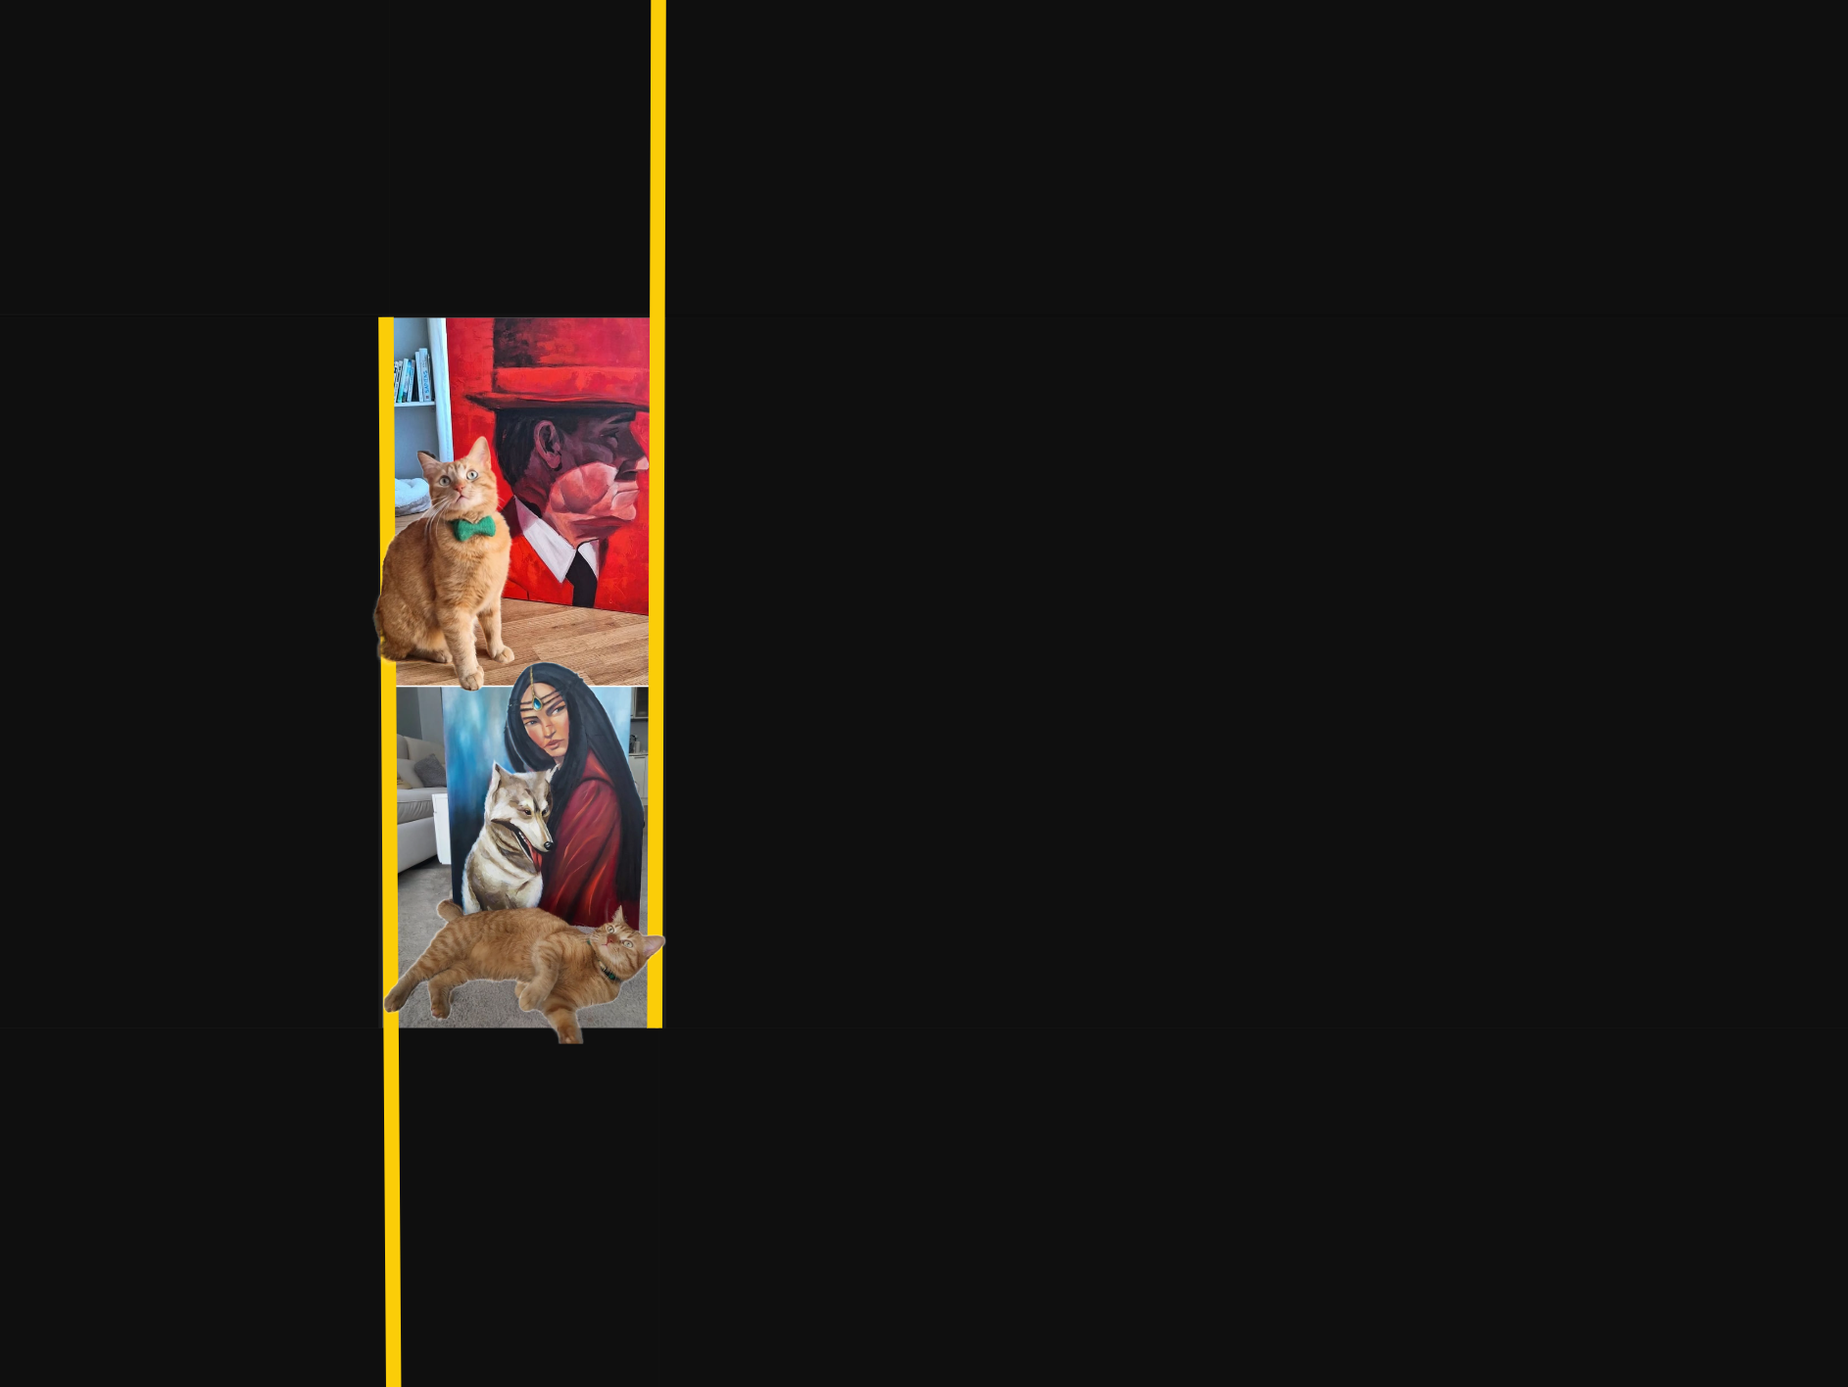
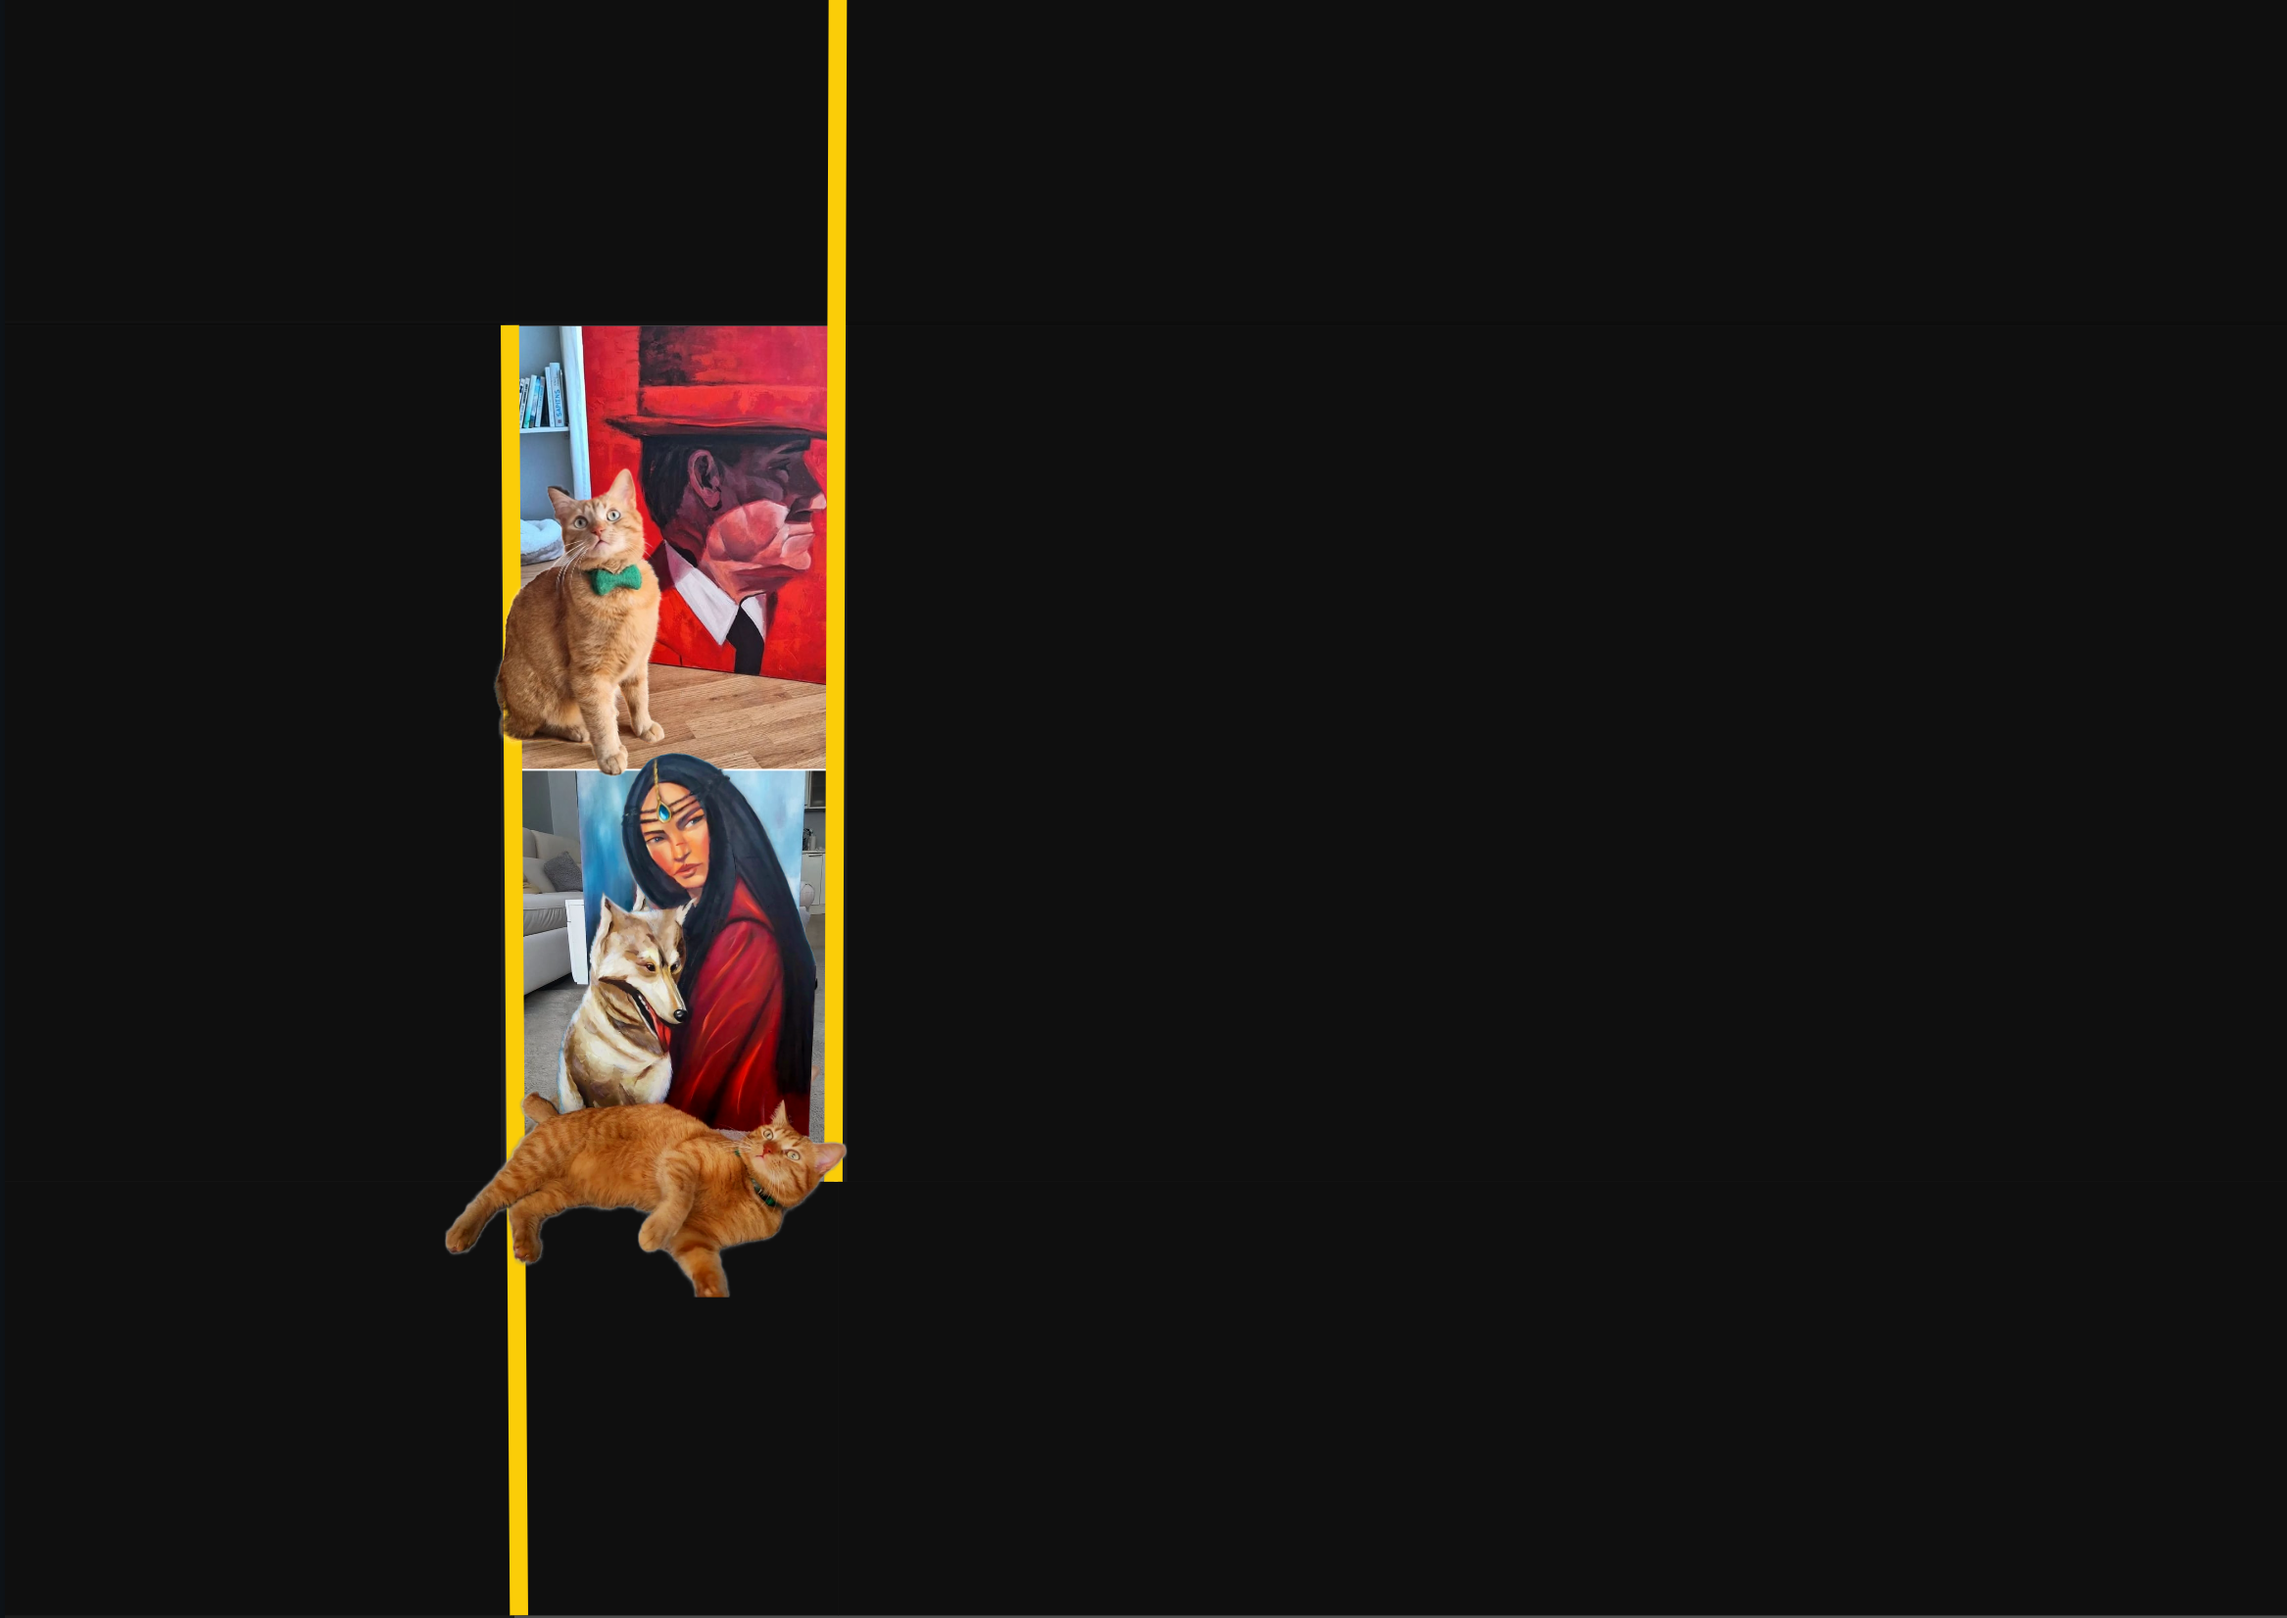
img change

Changed region(s): [[0.1845, 0.0, 1.0, 1.0]]

diff --git a/assets/css/main.css b/assets/css/main.css
@@ -979,7 +979,7 @@ body {
     width: 150px;
     margin: 0 auto;
     overflow: hidden;
-    border: 8px solid #fbcd08;
+    border-top: 8px solid #fbcd08;
 }
 
 .work--lockup .slider--item-image img {
